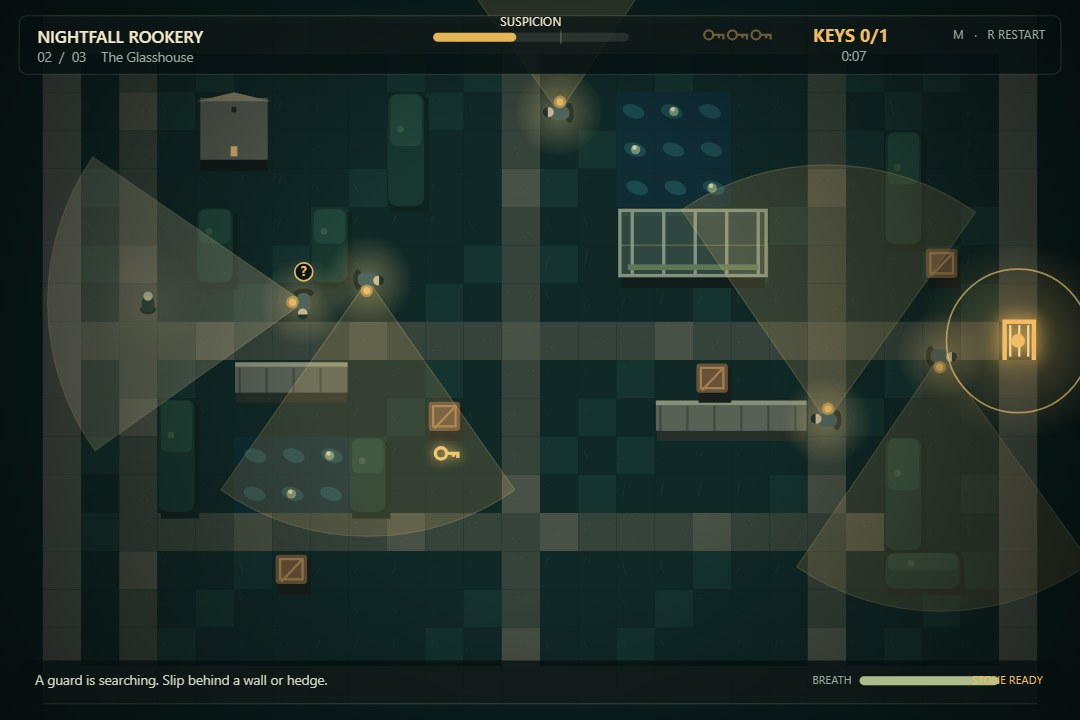
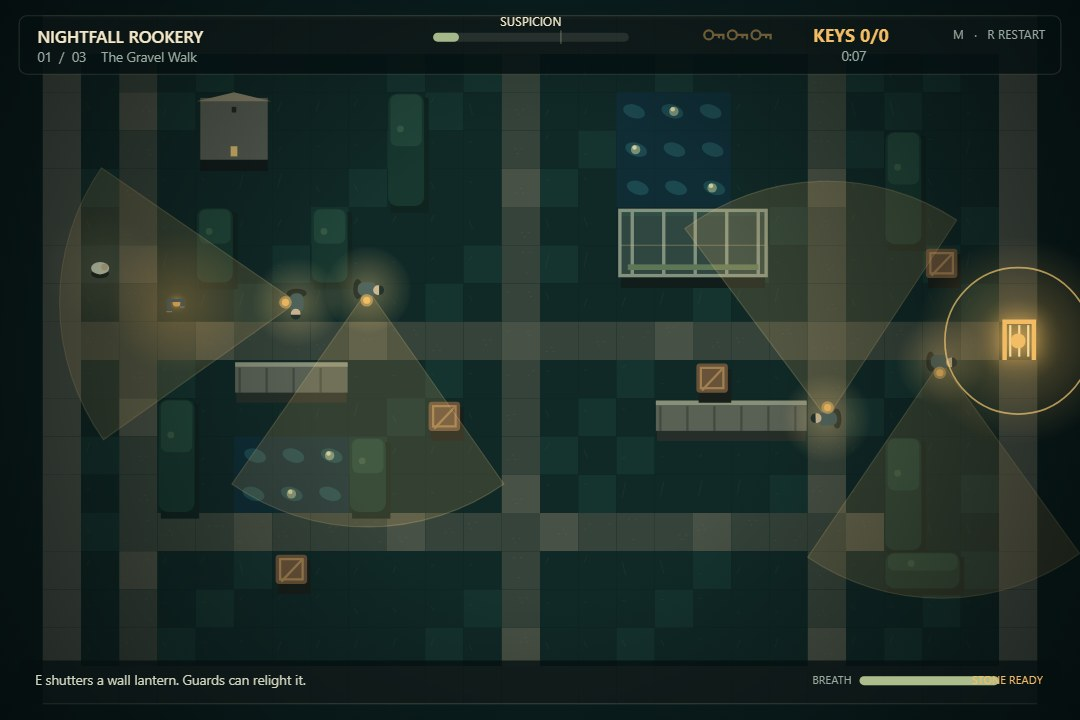
Add wall lanterns the player can shutter

diff --git a/game/src/render.js b/game/src/render.js
@@ -1,6 +1,8 @@
 // Procedural top-down garden, lantern vision cones, character silhouettes, soft light, and vignetting.
 import { COLS, FONT, HEIGHT, MAP_X, MAP_Y, PALETTE, ROWS, TILE, WIDTH } from './config.js';
 import { drawHud } from './hud.js';
+import { guardVisionRange } from './vision.js';
+import { LANTERN_SHADOW_RANGE, LANTERN_SHADOW_HALF_ANGLE } from './lanterns.js';
 
 const rounded = (ctx, x, y, width, height, radius) => {
   ctx.beginPath(); ctx.roundRect(x, y, width, height, radius);
@@ -118,17 +120,54 @@ function drawGate(ctx, level, time) {
   ctx.restore();
 }
 
-function drawCone(ctx, guard, length, time) {
-  const radius = length * TILE;
-  const color = guard.mode === 'chase' ? 'rgba(226, 65, 55, .24)' : guard.mode === 'suspicious' ? 'rgba(240, 224, 176, .23)' : 'rgba(244, 195, 113, .16)';
+function drawLanternShadows(ctx, lanterns) {
+  for (const lantern of lanterns) {
+    if (lantern.lit) continue;
+    ctx.save();
+    ctx.beginPath(); ctx.moveTo(lantern.x, lantern.y);
+    ctx.arc(lantern.x, lantern.y, LANTERN_SHADOW_RANGE, lantern.facing - LANTERN_SHADOW_HALF_ANGLE, lantern.facing + LANTERN_SHADOW_HALF_ANGLE);
+    ctx.closePath(); ctx.fillStyle = 'rgba(1, 7, 8, .48)'; ctx.fill();
+    ctx.strokeStyle = 'rgba(5, 12, 12, .34)'; ctx.lineWidth = 2; ctx.stroke();
+    ctx.restore();
+  }
+}
+
+function drawLanterns(ctx, lanterns, time) {
+  for (const lantern of lanterns) {
+    ctx.save();
+    if (lantern.lit) {
+      const flicker = 0.78 + Math.sin(time * 4 + lantern.id) * 0.08;
+      const glow = ctx.createRadialGradient(lantern.x, lantern.y, 2, lantern.x, lantern.y, 62);
+      glow.addColorStop(0, `rgba(255, 190, 92, ${0.32 * flicker})`); glow.addColorStop(1, 'rgba(255, 190, 92, 0)');
+      ctx.fillStyle = glow; ctx.fillRect(lantern.x - 64, lantern.y - 64, 128, 128);
+      ctx.shadowColor = '#f3bd65'; ctx.shadowBlur = 9 * flicker;
+      ctx.fillStyle = '#f3bd65'; ctx.beginPath(); ctx.arc(lantern.x, lantern.y, 3.5, 0, Math.PI * 2); ctx.fill();
+    } else {
+      ctx.strokeStyle = 'rgba(177, 190, 166, .7)'; ctx.lineWidth = 1.4;
+      ctx.beginPath(); ctx.moveTo(lantern.x, lantern.y - 4); ctx.bezierCurveTo(lantern.x - 8, lantern.y - 12, lantern.x + 8, lantern.y - 16, lantern.x + 2, lantern.y - 23); ctx.stroke();
+    }
+    ctx.shadowBlur = 0; ctx.strokeStyle = '#606960'; ctx.lineWidth = 3;
+    ctx.beginPath(); ctx.moveTo(lantern.x - 7, lantern.y + 7); ctx.lineTo(lantern.x - 7, lantern.y - 2); ctx.lineTo(lantern.x + 5, lantern.y - 2); ctx.lineTo(lantern.x + 5, lantern.y + 3); ctx.stroke();
+    ctx.strokeStyle = '#92917b'; ctx.lineWidth = 1;
+    ctx.beginPath(); ctx.moveTo(lantern.x - 9, lantern.y + 8); ctx.lineTo(lantern.x - 4, lantern.y + 8); ctx.moveTo(lantern.x + 3, lantern.y + 4); ctx.lineTo(lantern.x + 7, lantern.y + 4); ctx.stroke();
+    ctx.restore();
+  }
+}
+
+function drawCone(ctx, guard, length, time, lanterns) {
+  const radius = guardVisionRange(guard, length, lanterns) * TILE;
+  const dim = radius < length * TILE;
+  const scale = dim ? 0.48 : 1;
+  const coneColor = guard.mode === 'chase' ? [226, 65, 55, 0.24] : guard.mode === 'suspicious' ? [240, 224, 176, 0.23] : [244, 195, 113, 0.16];
+  const edgeColor = guard.mode === 'chase' ? [239, 102, 84, 0.42] : [255, 216, 149, 0.2];
   ctx.save();
   ctx.beginPath(); ctx.moveTo(guard.x, guard.y);
   ctx.arc(guard.x, guard.y, radius, guard.angle - guard.halfAngle, guard.angle + guard.halfAngle);
-  ctx.closePath(); ctx.fillStyle = color; ctx.fill();
-  ctx.strokeStyle = guard.mode === 'chase' ? 'rgba(239, 102, 84, .42)' : 'rgba(255, 216, 149, .2)';
+  ctx.closePath(); ctx.fillStyle = `rgba(${coneColor[0]}, ${coneColor[1]}, ${coneColor[2]}, ${coneColor[3] * scale})`; ctx.fill();
+  ctx.strokeStyle = `rgba(${edgeColor[0]}, ${edgeColor[1]}, ${edgeColor[2]}, ${edgeColor[3] * scale})`;
   ctx.lineWidth = 1; ctx.stroke();
   const lantern = ctx.createRadialGradient(guard.x, guard.y, 1, guard.x, guard.y, 40);
-  lantern.addColorStop(0, 'rgba(255, 214, 135, .34)'); lantern.addColorStop(1, 'rgba(255, 214, 135, 0)');
+  lantern.addColorStop(0, `rgba(255, 214, 135, ${dim ? '.15' : '.34'})`); lantern.addColorStop(1, 'rgba(255, 214, 135, 0)');
   ctx.fillStyle = lantern; ctx.beginPath(); ctx.arc(guard.x, guard.y, 40 + Math.sin(time * 7 + guard.bob) * 2, 0, Math.PI * 2); ctx.fill();
   ctx.restore();
 }
@@ -207,7 +246,9 @@ export function createRenderer(canvas) {
     drawWater(ctx, state.world, state.time);
     for (const feature of state.world.features) drawFeature(ctx, feature, state.world);
     drawWalls(ctx, state.world);
-    for (const guard of state.guards) drawCone(ctx, guard, state.level.length, state.time);
+    for (const guard of state.guards) drawCone(ctx, guard, state.level.length, state.time, state.lanterns);
+    drawLanternShadows(ctx, state.lanterns);
+    drawLanterns(ctx, state.lanterns, state.time);
     drawKeys(ctx, state.level, state.time);
     drawCoverLight(ctx, state.player);
     for (const guard of state.guards) drawGuard(ctx, guard);

diff --git a/game/src/main.js b/game/src/main.js
@@ -1,11 +1,12 @@
 // Game setup, screen flow, deterministic simulation updates, and the single animation loop.
-import { createInput, ACT_MUTE, ACT_PAUSE, ACT_RESTART, ACT_START, ACT_STONE, ACT_LEVEL_1, ACT_LEVEL_2, ACT_LEVEL_3 } from './input.js';
+import { createInput, ACT_MUTE, ACT_PAUSE, ACT_RESTART, ACT_START, ACT_STONE, ACT_LEVEL_1, ACT_LEVEL_2, ACT_LEVEL_3, ACT_LANTERN } from './input.js';
 import { LEVELS } from './levels.js';
 import { createWorld } from './world.js';
 import { createPlayer, collectKeys, movePlayer, throwStone } from './player.js';
 import { createGuards, updateGuards } from './guards.js';
 import { createRenderer } from './render.js';
 import { createAudio } from './audio.js';
+import { createLanterns, isInsideLanternShadow, toggleNearbyLantern } from './lanterns.js';
 
 const canvas = document.getElementById('game');
 const status = document.getElementById('status');
@@ -14,7 +15,8 @@ const renderer = createRenderer(canvas);
 const audio = createAudio();
 const state = {
   screen: 'title', levelIndex: 0, level: LEVELS[0], world: createWorld(0),
-  player: createPlayer(LEVELS[0].playerStart), guards: createGuards(LEVELS[0]),
+  player: createPlayer(LEVELS[0].playerStart), guards: createGuards(LEVELS[0]), lanterns: createLanterns(LEVELS[0]),
+  lanternHintShown: false,
   detection: 0, time: 0, elapsed: 0, notice: '', noticeTimer: 0, transitionTimer: 0,
 };
 let previous = performance.now();
@@ -36,6 +38,8 @@ function loadLevel(index) {
   state.world = createWorld(index);
   state.player = createPlayer(state.level.playerStart);
   state.guards = createGuards(state.level);
+  state.lanterns = createLanterns(state.level);
+  state.lanternHintShown = false;
   state.detection = 0;
   state.notice = '';
   if (index === 0) state.elapsed = 0;
@@ -90,6 +94,13 @@ function handleActions() {
     if (state.screen === 'title' || state.screen === 'caught' || state.screen === 'win') startGame();
     else if (state.screen === 'transition') { loadLevel(state.levelIndex); state.screen = 'play'; setNotice(state.level.subtitle, 2.5); }
   }
+  if ((actions & ACT_LANTERN) && state.screen === 'play') {
+    const lantern = toggleNearbyLantern(state.player, state.lanterns);
+    if (lantern) {
+      audio.shutter();
+      setNotice(lantern.lit ? 'Lantern opened. The corridor is bright again.' : 'Lantern shuttered. The corridor sinks into shadow.', 2.2);
+    }
+  }
   if ((actions & ACT_STONE) && state.screen === 'play') {
     const stone = throwStone(state.player, input.pointer(), audio, state.guards);
     if (stone) setNotice('A small sound travels farther than a small shadow.', 2.2);
@@ -103,9 +114,10 @@ function update(dt) {
   if (state.screen !== 'play') return;
   state.elapsed += dt;
   movePlayer(state.player, state.world, input, dt, audio);
+  state.player.hidden = state.player.hidden || isInsideLanternShadow(state.player.x, state.player.y, state.lanterns);
   const key = collectKeys(state.player, state.level);
   if (key) { audio.key(); setNotice('A brass key. The old lock will turn now.', 2.1); }
-  const action = updateGuards(state.guards, state.world, state.player, state.level, dt, audio);
+  const action = updateGuards(state.guards, state.world, state.player, state.level, state.lanterns, dt, audio);
   const visibleGuards = state.guards.filter((guard) => guard.seeing);
   const pressure = action.detection;
   const loudNearMiss = visibleGuards.length === 0 && state.player.sprint && action.nearest && action.nearest.distance < 82;
@@ -113,6 +125,10 @@ function update(dt) {
   const near = loudNearMiss ? dt * 0.42 : 0;
   const recovery = state.player.hidden ? dt * 0.21 : dt * 0.115;
   state.detection = Math.max(0, Math.min(1, state.detection + rise + near - (pressure > 0 || loudNearMiss ? 0 : recovery)));
+  if (!state.lanternHintShown && state.lanterns.some((lantern) => Math.hypot(state.player.x - lantern.x, state.player.y - lantern.y) <= 68)) {
+    state.lanternHintShown = true;
+    setNotice('E shutters a wall lantern. Guards can relight it.', 3);
+  }
   if (loudNearMiss && state.detection > 0.16 && state.noticeTimer < 0.15) setNotice('Gravel scatters underfoot. A lantern turns your way.', 1.8);
   if (state.detection >= 1 || state.player.caught) {
     state.screen = 'caught';

diff --git a/game/src/levels.js b/game/src/levels.js
@@ -2,10 +2,11 @@
 import { MAP_X, MAP_Y, TILE } from './config.js';
 
 const at = (col, row) => ({ x: MAP_X + (col + 0.5) * TILE, y: MAP_Y + (row + 0.5) * TILE });
+const wallLantern = (col, row, facing) => ({ ...at(col, row), facing, lit: true });
 
 export const LEVELS = [
   {
-    name: 'The Gravel Walk', subtitle: 'A quiet crossing', keys: [], guards: [
+    name: 'The Gravel Walk', subtitle: 'A quiet crossing', keys: [], lanterns: [wallLantern(3, 7, Math.PI / 2)], guards: [
       { name: 'Mara', route: [[3, 8], [8, 8], [8, 6], [8, 8]], pause: 0.8 },
       { name: 'Ivo', route: [[15, 13], [20, 13], [20, 10], [20, 13]], pause: 1.1 },
       { name: 'Sedge', route: [[5, 4], [8, 4], [8, 6], [7, 7], [5, 7]], pause: 0.65 },
@@ -13,7 +14,7 @@ export const LEVELS = [
     ], length: 6.2, suspicion: 2.25, chase: 3.3,
   },
   {
-    name: 'The Glasshouse', subtitle: 'Three brass teeth, one at a time', keys: [[10, 11]], guards: [
+    name: 'The Glasshouse', subtitle: 'Three brass teeth, one at a time', keys: [[10, 11]], lanterns: [wallLantern(6, 7, Math.PI / 2), wallLantern(18, 12, Math.PI / 2), wallLantern(11, 5, 0)], guards: [
       { name: 'Mara', route: [[3, 8], [8, 8], [8, 6], [8, 8]], pause: 0.7 },
       { name: 'Ivo', route: [[15, 13], [20, 13], [20, 10], [20, 13]], pause: 0.9 },
       { name: 'Sedge', route: [[5, 4], [8, 4], [8, 6], [7, 7], [5, 7]], pause: 0.55 },
@@ -22,7 +23,7 @@ export const LEVELS = [
     ], length: 6.7, suspicion: 1.9, chase: 3.5,
   },
   {
-    name: 'The Rookery Gate', subtitle: 'Two keys remain. Keep to the shadows.', keys: [[2, 11], [14, 7]], guards: [
+    name: 'The Rookery Gate', subtitle: 'Two keys remain. Keep to the shadows.', keys: [[2, 11], [14, 7]], lanterns: [wallLantern(6, 7, Math.PI / 2), wallLantern(18, 12, Math.PI / 2), wallLantern(11, 5, 0)], guards: [
       { name: 'Mara', route: [[3, 8], [8, 8], [8, 6], [8, 8]], pause: 0.55 },
       { name: 'Ivo', route: [[15, 13], [20, 13], [20, 10], [20, 13]], pause: 0.65 },
       { name: 'Sedge', route: [[5, 4], [8, 4], [8, 6], [7, 7], [5, 7]], pause: 0.45 },
@@ -37,6 +38,7 @@ export const LEVELS = [
     ...guard, id: index, route: guard.route.map(([col, row]) => at(col, row)),
   })),
   keys: level.keys.map(([col, row], id) => ({ id, ...at(col, row), found: false })),
+  lanterns: level.lanterns.map((lantern, id) => ({ ...lantern, id })),
   playerStart: at(1, 15),
   gate: at(25, 8),
 }));

diff --git a/game/src/lanterns.js b/game/src/lanterns.js
@@ -1,0 +1,59 @@
+// Shutterable corridor lanterns and their delayed guard relighting.
+import { TILE } from './config.js';
+
+export const LANTERN_INTERACTION_RANGE = TILE * 1.3;
+export const LANTERN_SHADOW_RANGE = TILE * 4.5;
+export const LANTERN_SHADOW_HALF_ANGLE = Math.PI * 0.36;
+
+export function createLanterns(level) {
+  return level.lanterns.map((lantern) => ({ ...lantern, relightTimer: 0 }));
+}
+
+export function findNearbyLantern(x, y, lanterns, maxDistance = LANTERN_INTERACTION_RANGE) {
+  let nearest = null;
+  for (const lantern of lanterns) {
+    const distance = Math.hypot(x - lantern.x, y - lantern.y);
+    if (distance <= maxDistance && (nearest === null || distance < nearest.distance)) nearest = { lantern, distance };
+  }
+  return nearest?.lantern ?? null;
+}
+
+export function toggleNearbyLantern(player, lanterns) {
+  const lantern = findNearbyLantern(player.x, player.y, lanterns);
+  if (!lantern) return null;
+  lantern.lit = !lantern.lit;
+  lantern.relightTimer = 0;
+  return lantern;
+}
+
+export function lanternShadowContains(lantern, x, y) {
+  if (lantern.lit) return false;
+  const dx = x - lantern.x;
+  const dy = y - lantern.y;
+  const distance = Math.hypot(dx, dy);
+  if (distance > LANTERN_SHADOW_RANGE || distance < 1) return distance < 1;
+  const angle = Math.atan2(dy, dx);
+  const difference = Math.atan2(Math.sin(angle - lantern.facing), Math.cos(angle - lantern.facing));
+  return Math.abs(difference) <= LANTERN_SHADOW_HALF_ANGLE;
+}
+
+export function isInsideLanternShadow(x, y, lanterns) {
+  return lanterns.some((lantern) => lanternShadowContains(lantern, x, y));
+}
+
+export function updateLanternRelights(lanterns, guards, dt, audio) {
+  for (const lantern of lanterns) {
+    if (lantern.lit) continue;
+    const guardIsClose = guards.some((guard) => Math.hypot(guard.x - lantern.x, guard.y - lantern.y) <= TILE);
+    if (!guardIsClose) {
+      lantern.relightTimer = 0;
+      continue;
+    }
+    lantern.relightTimer += dt;
+    if (lantern.relightTimer >= 0.95) {
+      lantern.lit = true;
+      lantern.relightTimer = 0;
+      audio.clank();
+    }
+  }
+}

diff --git a/game/src/guards.js b/game/src/guards.js
@@ -1,6 +1,7 @@
 // Learnable patrol loops, waypoint pauses, investigation, pursuit, and shared detection pressure.
 import { TILE } from './config.js';
 import { seesTarget } from './vision.js';
+import { updateLanternRelights } from './lanterns.js';
 
 const wrapAngle = (angle) => Math.atan2(Math.sin(angle), Math.cos(angle));
 const moveToward = (guard, x, y, speed, dt) => {
@@ -24,13 +25,13 @@ export function createGuards(level) {
   }));
 }
 
-export function updateGuards(guards, world, player, level, dt, audio) {
+export function updateGuards(guards, world, player, level, lanterns, dt, audio) {
   let detection = 0;
   let nearest = null;
   for (const guard of guards) {
     guard.patrolPhase += dt;
     guard.bob += dt * (guard.mode === 'patrol' ? 4 : 8);
-    guard.seeing = seesTarget(world, guard, player, level.length);
+    guard.seeing = seesTarget(world, guard, player, level.length, lanterns);
     const dist = Math.hypot(player.x - guard.x, player.y - guard.y);
     const isVisible = guard.seeing;
     if (nearest === null || dist < nearest.distance) nearest = { distance: dist, name: guard.name };
@@ -87,5 +88,6 @@ export function updateGuards(guards, world, player, level, dt, audio) {
     }
     if (guard.mode === 'chase' && dist < TILE * 0.45) player.caught = true;
   }
+  updateLanternRelights(lanterns, guards, dt, audio);
   return { detection: Math.min(1, detection), nearest };
 }

diff --git a/game/src/vision.js b/game/src/vision.js
@@ -1,6 +1,7 @@
 // Guard field-of-view and grid-stepped line-of-sight tests.
 import { TILE } from './config.js';
 import { blocksSight } from './world.js';
+import { isInsideLanternShadow } from './lanterns.js';
 
 export function lineOfSight(world, fromX, fromY, toX, toY) {
   const dx = toX - fromX;
@@ -14,11 +15,16 @@ export function lineOfSight(world, fromX, fromY, toX, toY) {
   return true;
 }
 
-export function seesTarget(world, guard, target, lengthTiles) {
+export function guardVisionRange(guard, lengthTiles, lanterns = []) {
+  const shaded = isInsideLanternShadow(guard.x, guard.y, lanterns);
+  return lengthTiles * (shaded ? 0.45 : 1);
+}
+
+export function seesTarget(world, guard, target, lengthTiles, lanterns = []) {
   const dx = target.x - guard.x;
   const dy = target.y - guard.y;
   const distance = Math.hypot(dx, dy);
-  if (distance > lengthTiles * TILE || distance < 1) return false;
+  if (distance > guardVisionRange(guard, lengthTiles, lanterns) * TILE || distance < 1) return false;
   let difference = Math.atan2(Math.sin(Math.atan2(dy, dx) - guard.angle), Math.cos(Math.atan2(dy, dx) - guard.angle));
   if (Math.abs(difference) > guard.halfAngle) return false;
   return lineOfSight(world, guard.x, guard.y, target.x, target.y);

diff --git a/game/src/hud.js b/game/src/hud.js
@@ -1,6 +1,7 @@
 // In-world-readable status strip, key count, alert meter, stamina, and contextual stealth advice.
 import { FONT, PALETTE, WIDTH } from './config.js';
 import { formatTime } from './render.js';
+import { findNearbyLantern } from './lanterns.js';
 
 function rounded(ctx, x, y, width, height, radius) {
   ctx.beginPath(); ctx.roundRect(x, y, width, height, radius);
@@ -8,6 +9,7 @@ function rounded(ctx, x, y, width, height, radius) {
 
 function hintFor(state) {
   if (state.notice) return state.notice;
+  if (findNearbyLantern(state.player.x, state.player.y, state.lanterns)) return 'E shutter or open this wall lantern.';
   if (state.player.caught) return 'A lantern has closed in.';
   if (state.player.hidden) return 'You are in deep cover. Stay low and let the watch pass.';
   if (state.detection > 0.62) return 'Too close to the light. Break sight and crouch.';

diff --git a/game/src/input.js b/game/src/input.js
@@ -7,6 +7,7 @@ export const ACT_STONE = 16;
 export const ACT_LEVEL_1 = 32;
 export const ACT_LEVEL_2 = 64;
 export const ACT_LEVEL_3 = 128;
+export const ACT_LANTERN = 256;
 
 export function createInput(canvas) {
   const held = new Set();
@@ -28,6 +29,7 @@ export function createInput(canvas) {
     else if (event.code === 'KeyR') actions |= ACT_RESTART;
     else if (event.code === 'KeyM') actions |= ACT_MUTE;
     else if (event.code === 'KeyQ') actions |= ACT_STONE;
+    else if (event.code === 'KeyE') actions |= ACT_LANTERN;
   });
   window.addEventListener('keyup', (event) => held.delete(event.code));
   window.addEventListener('blur', () => held.clear());

diff --git a/game/src/audio.js b/game/src/audio.js
@@ -36,6 +36,8 @@ export function createAudio() {
     key() { tone(560, 0.18, 'sine', 0.04, 220); setTimeout(() => tone(880, 0.28, 'sine', 0.03, 160), 95); },
     gate() { tone(330, 0.4, 'sine', 0.025, 280); setTimeout(() => tone(495, 0.55, 'sine', 0.03, 250), 140); },
     alarm() { tone(190, 0.5, 'sawtooth', 0.04, 280); },
+    clank() { tone(310, 0.11, 'triangle', 0.018, -125); setTimeout(() => tone(205, 0.09, 'triangle', 0.012, -55), 45); },
+    shutter() { tone(245, 0.075, 'triangle', 0.012, -90); },
     lantern(dt) {
       ambientTimer += dt;
       if (ambientTimer > 1.8) { ambientTimer = 0; tone(102 + Math.random() * 16, 0.42, 'sine', 0.004); }
